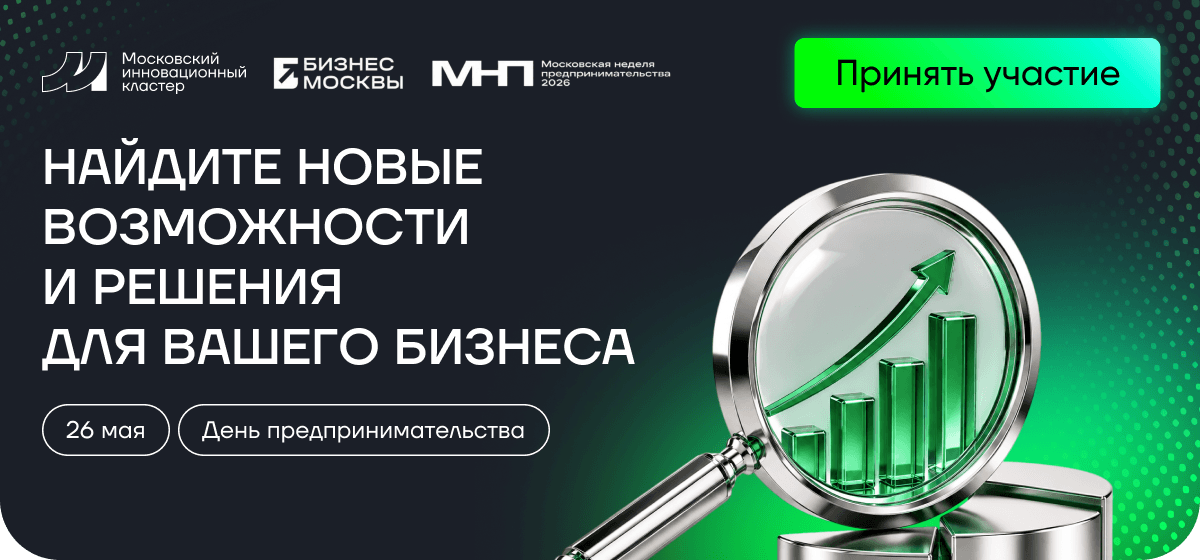
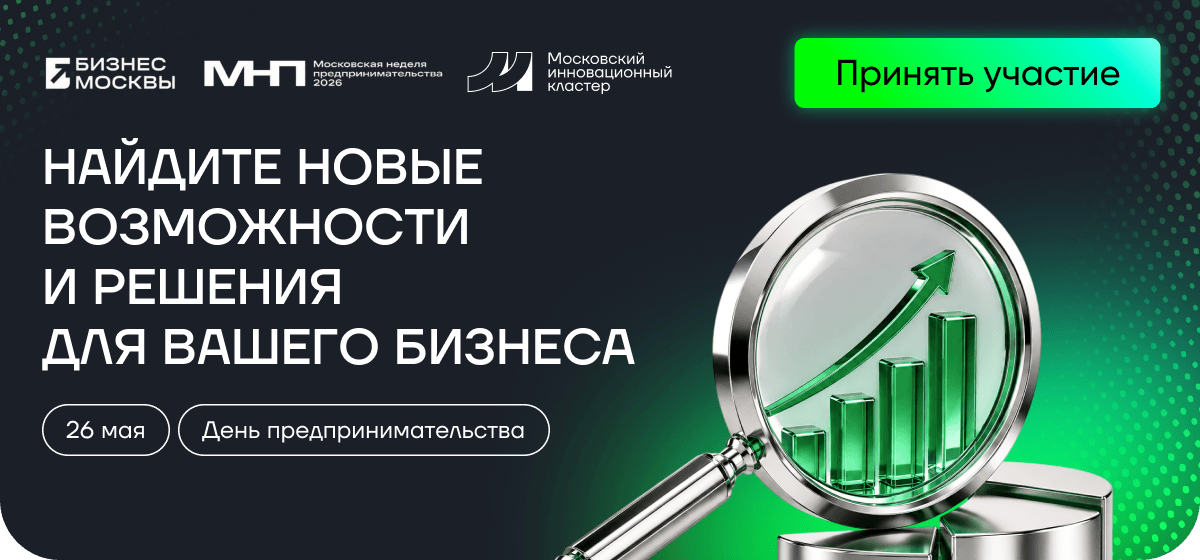
change mik-359/change mik-360

Changed region(s): [[0.0308, 0.0911, 0.555, 0.1821]]

diff --git a/mik-360/Опрос рынка БПЛА.html b/mik-360/Опрос рынка БПЛА.html
@@ -103,7 +103,7 @@
                                         <tr>
                                             <td style="width:600px;">
                                                 <a href="https://forms.yandex.ru/u/69eb6c10d046880d347481d0/" target="_blank">
-                                                    <img alt="Опрос рынка робототехники и БПЛА. Примите участие в исследовании реальных потребностей рынка. Нажмите здесь, чтобы пройти опрос." height="auto" src="https://cp.unisender.com/ru/user_file?resource=images&user_id=5608985&name=mik-360-hero.png" style="border:0;display:block;outline:none;text-decoration:none;height:auto;width:100%;font-size:13px;" width="600" />
+                                                    <img alt="Опрос рынка робототехники и БАС. Примите участие в исследовании реальных потребностей рынка. Нажмите здесь, чтобы пройти опрос." height="auto" src="https://cp.unisender.com/ru/user_file?resource=images&user_id=5608985&name=mik-360-hero.png" style="border:0;display:block;outline:none;text-decoration:none;height:auto;width:100%;font-size:13px;" width="600" />
                                                 </a>
                                             </td>
                                         </tr>
@@ -139,7 +139,7 @@
                                 <td align="left" style="font-size:0px;word-break:break-word;padding:13px 0 14px;">
                                     <div style="display:inline-block;color:#000000;font-family: Gilroy, Helvetica, Arial, sans-serif;text-align:left;font-size:16px;font-weight:600;line-height:120%;margin:0;text-decoration:none;text-transform:none;mso-padding-alt:0px;width:100%;border-radius:12px;min-height:70px;background: linear-gradient(79.57deg, #00FB07 19.78%, #00FED9 85.02%, #9FFFF6 103.22%);"><span style="padding:16px 15px;display:block;">
                                         <span style="display:block;text-align:center;max-width:65px;width:100%;border-radius:39px;min-height:24px;padding-top:3px;border: 1px solid #000000;margin-bottom:8px;">Цель</span>
-                                        Сделать поиск партнеров быстрее, точнее и&nbsp;эффективнее для&nbsp;бизнеса. В&nbsp;фокусе&nbsp;— рынок робототехники и&nbsp;БПЛА.</span></div>
+                                        Сделать поиск партнеров быстрее, точнее и&nbsp;эффективнее для&nbsp;бизнеса. В&nbsp;фокусе&nbsp;— рынок робототехники и&nbsp;БАС.</span></div>
                                 </td>
                             </tr>
                             <tr>